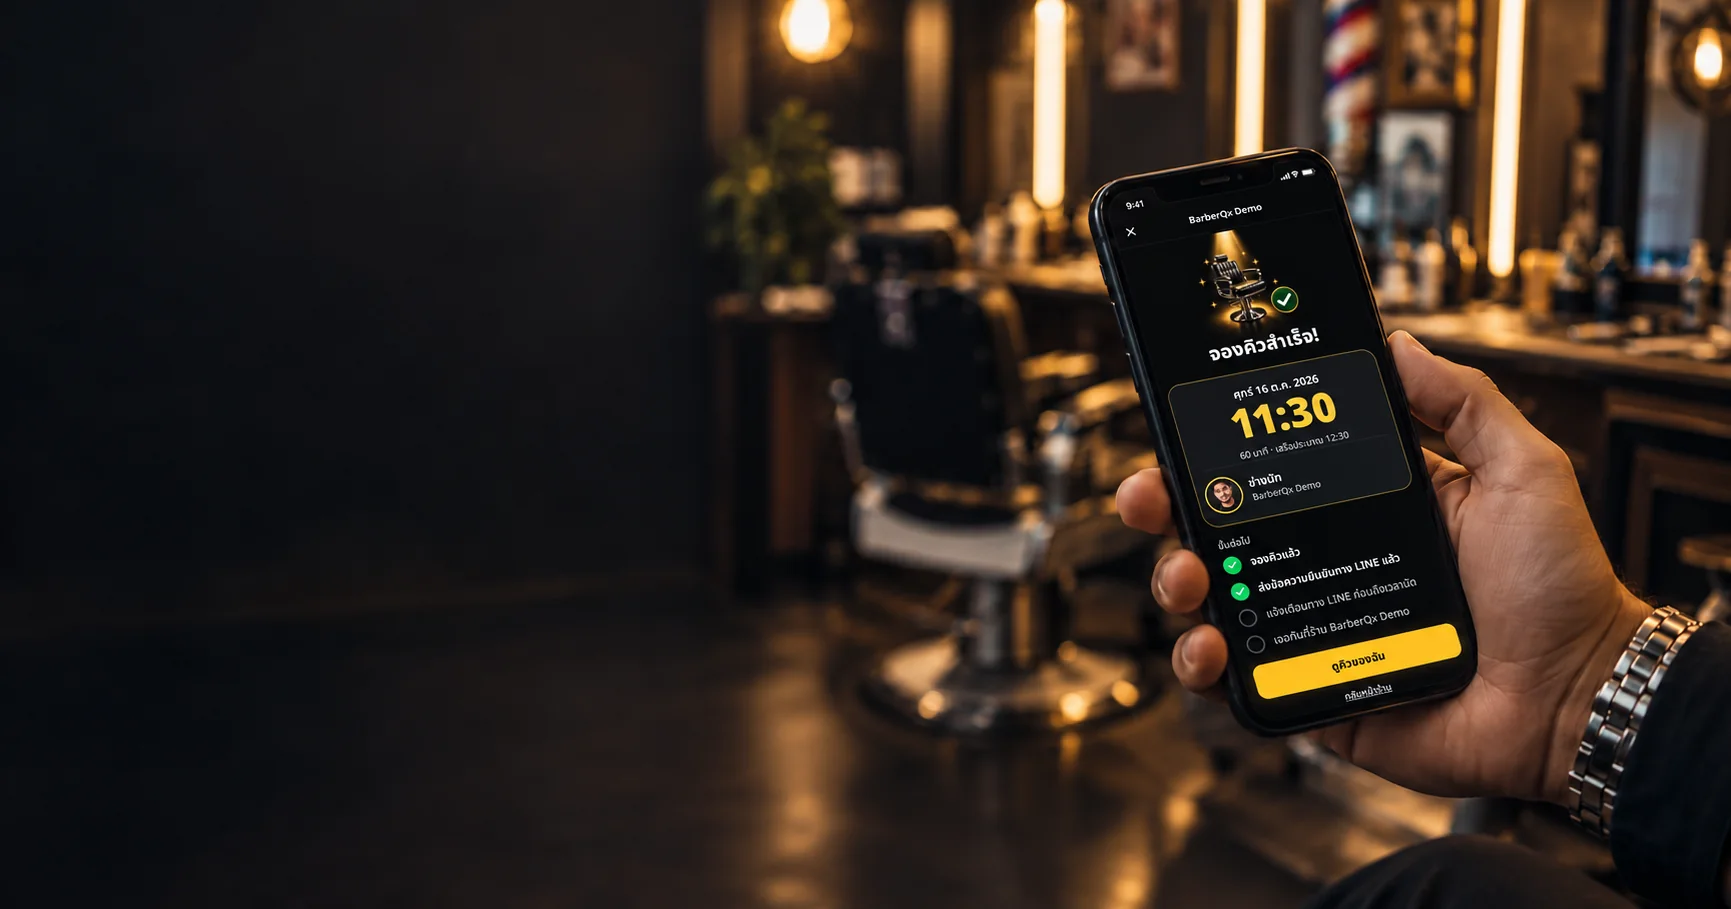
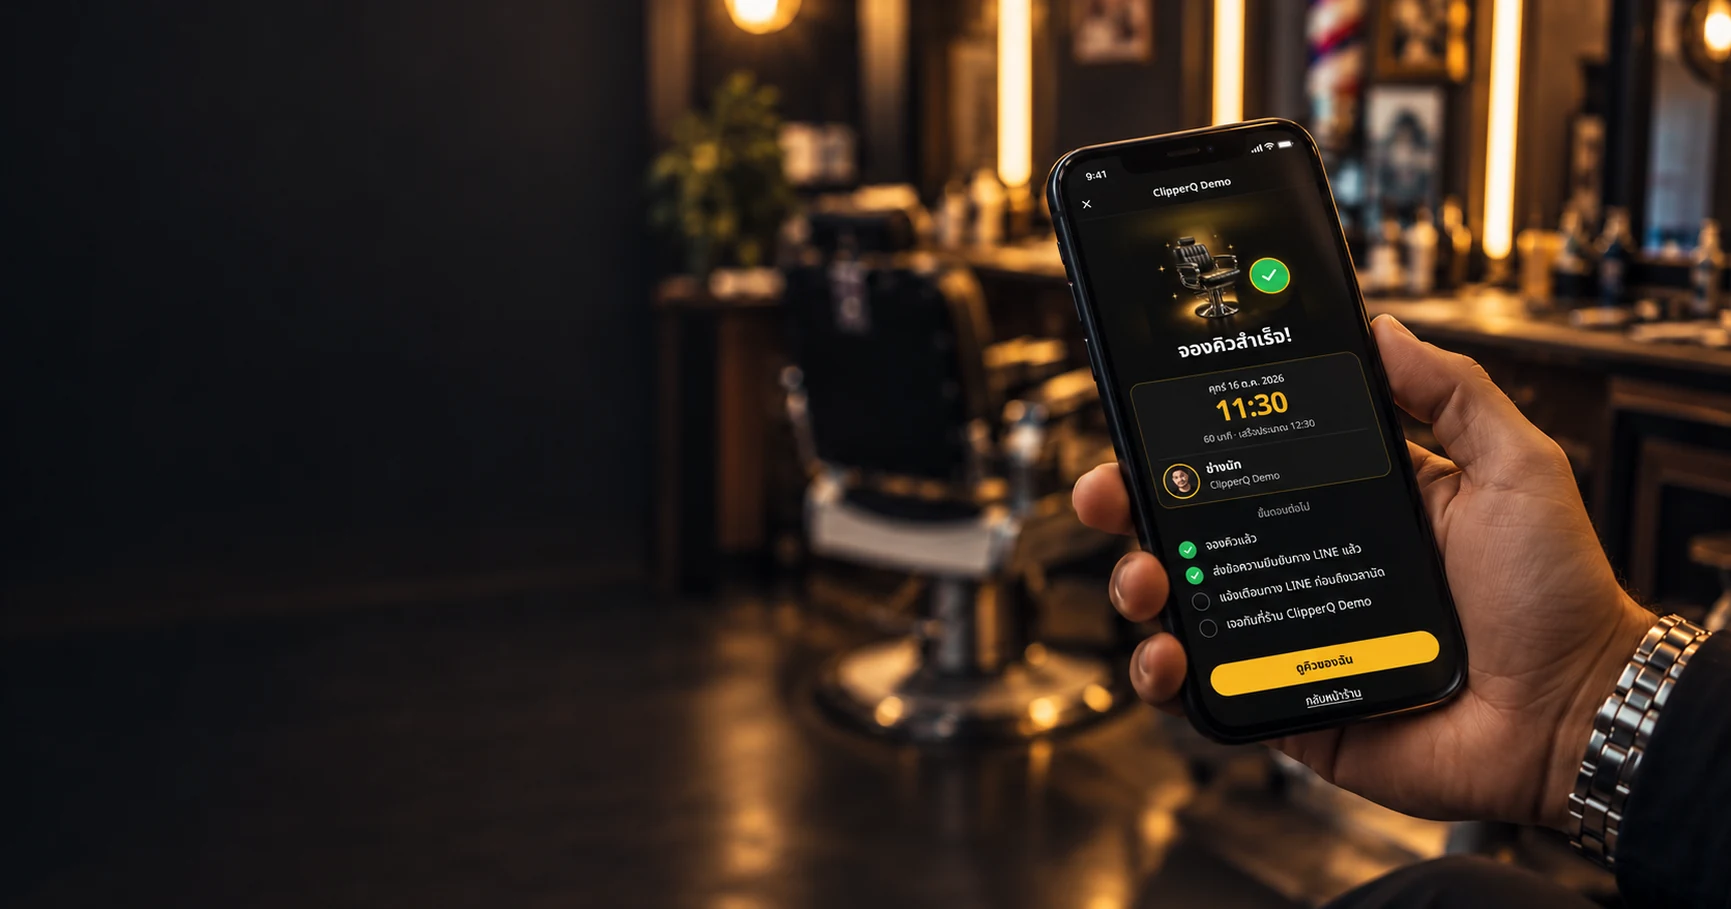
Replace desktop hero with Tommy ClipperQ Demo photo
Cover-crop the new 1672×941 plate into the 1731×909 slot (phone and
hand fully visible on the right), refresh ai-source, leave hero-mobile.

diff --git a/src/lib/marketing/photo-slots.ts b/src/lib/marketing/photo-slots.ts
@@ -55,7 +55,7 @@ export const marketingPhotoSlots: Record<MarketingPhotoSlotId, MarketingPhotoSlo
     ratio: "16:9",
     labelTh: "รูปฮีโร่เดสก์ท็อป 16:9 1731×909",
     artNote:
-      "1731×909 · Tommy hero-composite · hand+phone on right (booking-success B2) · dark left for copy · PNG fallback /marketing/photos/hero-desktop.png",
+      "1731×909 · Tommy hero-composite · ClipperQ Demo booking-success B2 on phone · cover-crop from 1672×941 plate · hand+phone on right · dark left for copy · PNG fallback /marketing/photos/hero-desktop.png",
   },
   heroMobile: {
     id: "heroMobile",
